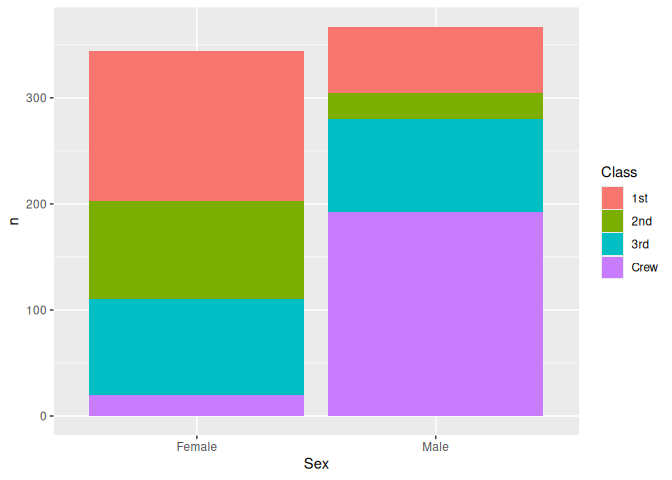
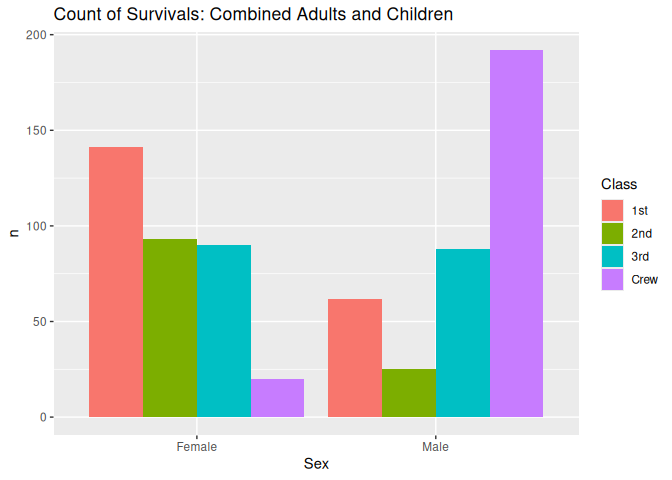
assignment 1 revision

diff --git a/challenges/c01-titanic-assignment.md b/challenges/c01-titanic-assignment.md
@@ -1,7 +1,7 @@
 RMS Titanic
 ================
-(Your name here)
-2020-
+Pepper Wang
+2026-10-11 (revised)
 
 - [Grading Rubric](#grading-rubric)
   - [Individual](#individual)
@@ -119,7 +119,7 @@ glimpse(df_titanic)
 - Sex (male, female)
 - Age (adult, child)
 - Survived (yes, no)
-- How many people are in the group
+- n (How many people are in the group)
 
 There are 32 rows total (1 for each group).
 
@@ -144,7 +144,11 @@ df_titanic %>% summarize(total = sum(n))
 - Are there any differences?
   - The data set includes 2201, which is slightly different (7 off)
 - If yes, what might account for those differences?
-  - Different sources having different information, inaccurate records
+  - The ship may have had stowaways that were not in the ship’s official
+    records but were recorded later
+  - There may have been some reason to obfuscate the data from the
+    public, so it would not be known whether a certain notable person
+    lived or not
 
 ### **q3** Create a plot showing the count of persons who *did* survive, along with aesthetics for `Class` and `Sex`. Document your observations below.
 
@@ -153,11 +157,17 @@ df_titanic %>% summarize(total = sum(n))
 ``` r
 ## TASK: Visualize counts against `Class` and `Sex`
 
-survivors <- df_titanic |>
+df_titanic |>
   filter(Survived == "Yes") |>
   select(-c(Age, Survived)) |>
   group_by(Sex, Class) |>
-  summarise(n = sum(n))
+  summarise(n = sum(n)) |>
+
+  ggplot(aes(x = Sex, y = n, fill = Class)) +
+  geom_col(position = "Dodge") +
+  labs(
+    title = "Count of Survivals: Combined Adults and Children"
+  )
 ```
 
     ## `summarise()` has regrouped the output.
@@ -167,29 +177,22 @@ survivors <- df_titanic |>
     ## ℹ Use `summarise(.by = c(Sex, Class))` for per-operation grouping
     ##   (`?dplyr::dplyr_by`) instead.
 
-``` r
-survivors
-```
-
-    ## # A tibble: 8 × 3
-    ## # Groups:   Sex [2]
-    ##   Sex    Class     n
-    ##   <chr>  <chr> <dbl>
-    ## 1 Female 1st     141
-    ## 2 Female 2nd      93
-    ## 3 Female 3rd      90
-    ## 4 Female Crew     20
-    ## 5 Male   1st      62
-    ## 6 Male   2nd      25
-    ## 7 Male   3rd      88
-    ## 8 Male   Crew    192
-
-``` r
-ggplot(survivors, aes(x = Sex, y = n, fill = Class)) +
-  geom_col()
-```
-
 ![](c01-titanic-assignment_files/figure-gfm/q3-task-1.png)<!-- -->
+
+``` r
+## TASK: Visualize counts against `Class` and `Sex`
+
+df_titanic |>
+  filter(Survived == "Yes") |>
+  ggplot(aes(x = Sex, y = n, fill = Class)) +
+  geom_col(position = "Dodge") +
+  facet_grid(Age ~ .) +
+  labs(
+    title = "Count of Survivals: Separate Adults and Children"
+  )
+```
+
+![](c01-titanic-assignment_files/figure-gfm/q3-1.png)<!-- -->
 
 **Observations**:
 
@@ -242,11 +245,17 @@ df_prop
 ### **q4** Replicate your visual from q3, but display `Prop` in place of `n`. Document your observations, and note any new/different observations you make in comparison with q3. Is there anything *fishy* in your plot?
 
 ``` r
-survivors_prop <- df_prop |>
+df_prop |>
   filter(Survived == "Yes") |>
   select(-c(Age, Survived)) |>
   group_by(Sex, Class) |>
-  summarise(Prop = sum(Prop, na.rm = TRUE))
+  summarise(Prop = sum(Prop, na.rm = TRUE)) |>
+
+  ggplot(aes(x = Sex, y = Prop, fill = Class)) +
+  geom_col(position = "Dodge") +
+  labs(
+    title = "Summed proportion of survivors, separated by class and sex"
+  )
 ```
 
     ## `summarise()` has regrouped the output.
@@ -256,37 +265,41 @@ survivors_prop <- df_prop |>
     ## ℹ Use `summarise(.by = c(Sex, Class))` for per-operation grouping
     ##   (`?dplyr::dplyr_by`) instead.
 
-``` r
-survivors_prop
-```
-
-    ## # A tibble: 8 × 3
-    ## # Groups:   Sex [2]
-    ##   Sex    Class  Prop
-    ##   <chr>  <chr> <dbl>
-    ## 1 Female 1st   1.97 
-    ## 2 Female 2nd   1.86 
-    ## 3 Female 3rd   0.912
-    ## 4 Female Crew  0.870
-    ## 5 Male   1st   1.33 
-    ## 6 Male   2nd   1.08 
-    ## 7 Male   3rd   0.433
-    ## 8 Male   Crew  0.223
-
-``` r
-ggplot(survivors_prop, aes(x = Sex, y = Prop, fill = Class)) +
-  geom_col()
-```
-
 ![](c01-titanic-assignment_files/figure-gfm/q4-task-1.png)<!-- -->
+
+``` r
+# This is a bad plot but ZDR said I should still include it
+```
 
 **Observations**:
 
 - Write your observations here.
   - Women were significantly more likely to survive than men
-  - Very few crew survived
+  - Female crew and 3rd class were almost equally likely to survive,
+    while male crew had half the chance of survival as male 3rd class
 - Is there anything *fishy* going on in your plot?
   - Some of the group proportions were greater than 1.
+
+``` r
+df_prop %>%
+  filter(Survived == "Yes") |>
+  ggplot(aes(Sex, Prop, fill = Class)) +
+  geom_col(
+    position = "dodge",
+    color = "black"
+  )
+```
+
+    ## Warning: Removed 2 rows containing missing values or values outside the scale range
+    ## (`geom_col()`).
+
+![](c01-titanic-assignment_files/figure-gfm/q4-task-revised-1.png)<!-- -->
+
+Observations from revised plot: - Without the black outlines, it appears
+that all 1st and 2nd class men and women survived, when other
+information and other plots show that is not the case. - With the
+outlines, it can be seen that the adult and child data ended up overlaid
+on top of each other.
 
 ### **q5** Create a plot showing the group-proportion of occupants who *did* survive, along with aesthetics for `Class`, `Sex`, *and* `Age`. Document your observations below.
 
@@ -294,37 +307,11 @@ ggplot(survivors_prop, aes(x = Sex, y = Prop, fill = Class)) +
 additional variables!
 
 ``` r
-survivors_prop <- df_prop |>
+df_prop |>
   filter(Survived == "Yes") |>
-  select(-c(Survived))
-
-survivors_prop
-```
-
-    ## # A tibble: 16 × 6
-    ##    Class Sex    Age       n Total     Prop
-    ##    <chr> <chr>  <chr> <dbl> <dbl>    <dbl>
-    ##  1 1st   Male   Child     5     5   1     
-    ##  2 2nd   Male   Child    11    11   1     
-    ##  3 3rd   Male   Child    13    48   0.271 
-    ##  4 Crew  Male   Child     0     0 NaN     
-    ##  5 1st   Female Child     1     1   1     
-    ##  6 2nd   Female Child    13    13   1     
-    ##  7 3rd   Female Child    14    31   0.452 
-    ##  8 Crew  Female Child     0     0 NaN     
-    ##  9 1st   Male   Adult    57   175   0.326 
-    ## 10 2nd   Male   Adult    14   168   0.0833
-    ## 11 3rd   Male   Adult    75   462   0.162 
-    ## 12 Crew  Male   Adult   192   862   0.223 
-    ## 13 1st   Female Adult   140   144   0.972 
-    ## 14 2nd   Female Adult    80    93   0.860 
-    ## 15 3rd   Female Adult    76   165   0.461 
-    ## 16 Crew  Female Adult    20    23   0.870
-
-``` r
-ggplot(survivors_prop, aes(x = Sex, y = Prop, fill = Class)) +
-  geom_col() +
-  facet_grid(. ~ Age)
+  ggplot(aes(x = Sex, y = Prop, fill = Class)) +
+  geom_col(position = "Dodge") +
+  facet_grid(Age ~ .)
 ```
 
     ## Warning: Removed 2 rows containing missing values or values outside the scale range
@@ -337,7 +324,7 @@ ggplot(survivors_prop, aes(x = Sex, y = Prop, fill = Class)) +
 - (Write your observations here.)
 - If you saw something *fishy* in q4 above, use your new plot to explain
   the fishy-ness.
-  - Children were very likely to survive - almost all 1st and 2nd class
+  - Children were very likely to survive - all 1st and 2nd class
     children survived, though 3rd class children had a much lower
     survival rate.
   - Separating out children and adults solved the “fishiness” - the
